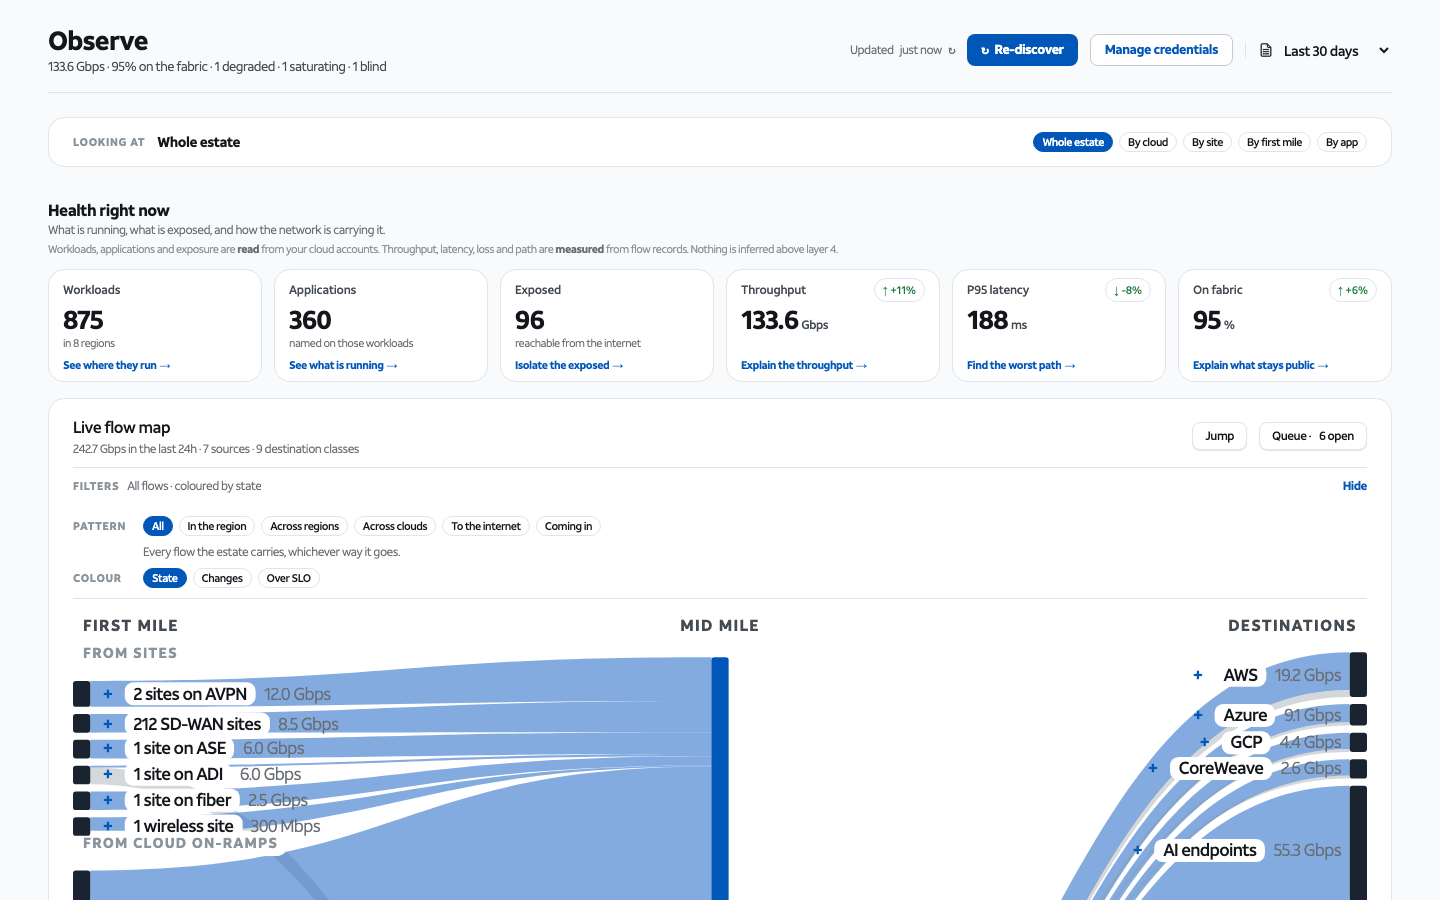
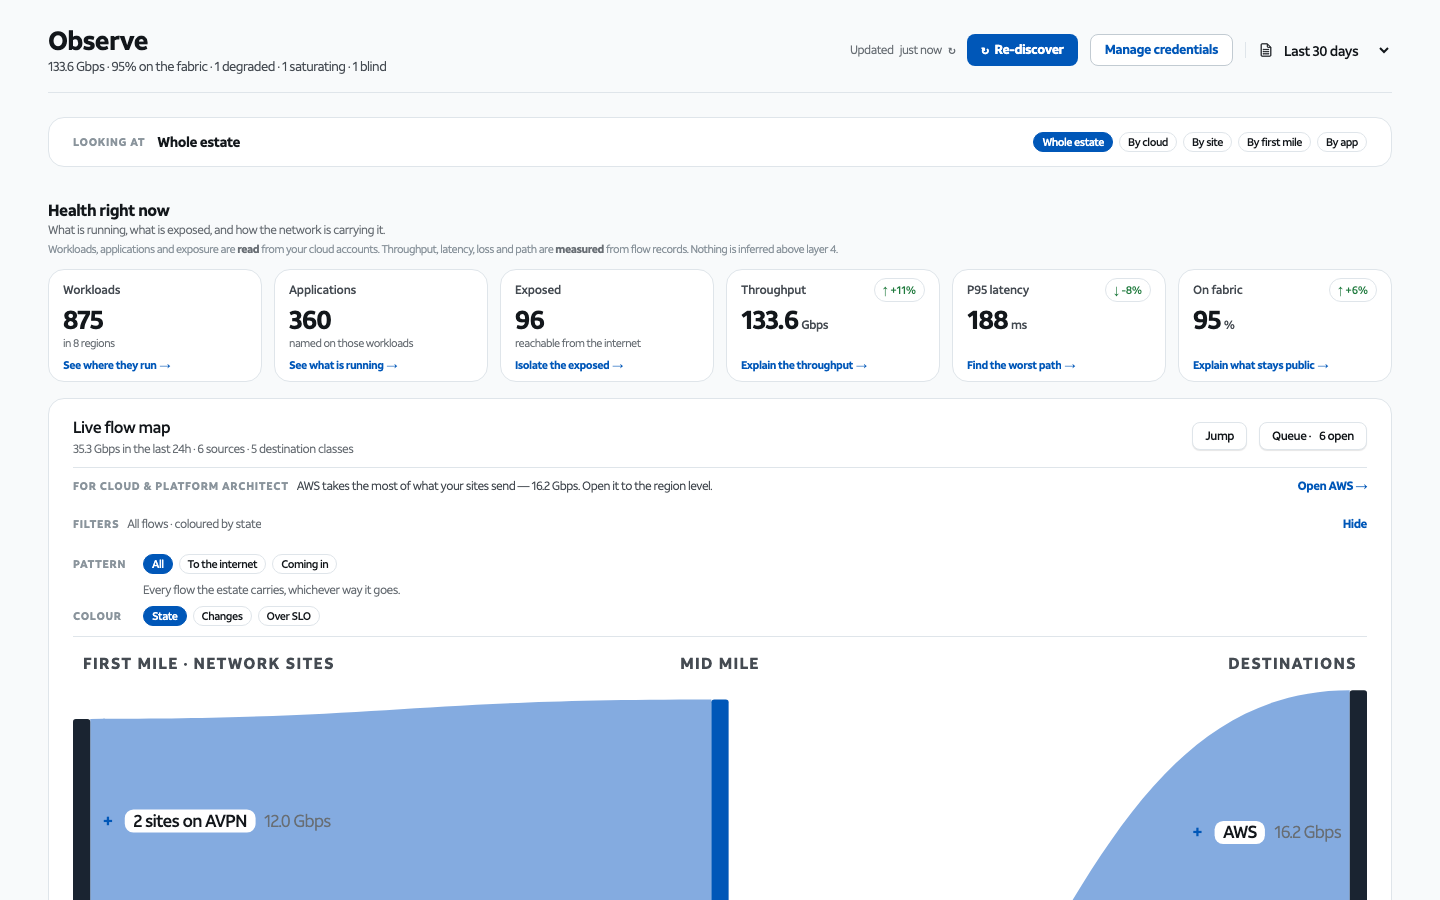
Observe: the drill serves the persona who is looking
Dev asked for drill-down from the flow map for different personas; the
header already had the switcher. Now it reaches the map: a lens line
under the card head hands each persona the number that matters to them
and the door that opens it - executive to the fabric share records,
architect straight into the biggest cloud's regions, network engineering
to what rides outside, security to uninspected internet egress, FinOps
to the money. The Insights cards name the persona they serve and the
current persona's cards lead.

Ripple from the sites-only map, swept and fixed: the legend no longer
claims a "stays in the region" line the map stopped drawing, the README
describes the columns as they are, and the flowmap comment no longer
narrates a ribbon that cannot fire. Observe screenshots regenerated.

diff --git a/NaaS Storefront.dc.html b/NaaS Storefront.dc.html
@@ -1108,7 +1108,8 @@ main button[style*="border-radius:9999px"],main button[style*="border-radius: 99
         <div id="sec-flow" class="fx-card" aria-label="Live flow map" tabindex="0" onKeyDown="{{ mapKey }}" style="outline:none;gap:10px;padding:16px 24px">
           <div class="fx-card-head" style="align-items:center"><div style="min-width:0"><h3 class="fx-card-title">Live flow map</h3><div class="fx-card-sub" title="{{ mapSub }}">{{ mapSub }}</div></div><div style="flex:none;display:flex;align-items:center;gap:8px"><button class="fx-btn" onClick="{{ openJump }}" style="height:28px;padding:0 12px;font-size:12px" title="Jump to anything by name (/)">Jump</button></div><sc-if value="{{ queueClosed }}" hint-placeholder-val="{{ true }}"><button class="fx-btn" onClick="{{ openQueue }}" style="margin-left:auto;height:28px;padding:0 12px;font-size:12px;white-space:nowrap">Queue · {{ queueCount }}</button></sc-if></div>
           <sc-if value="{{ mapJumpOpen }}" hint-placeholder-val="{{ false }}"><label class="fx-search" style="width:100%"><span aria-hidden="true"></span><input value="{{ mapJumpQ }}" onChange="{{ setMapJumpQ }}" onKeyDown="{{ mapJumpKey }}" placeholder="Region, site, VPC, workload, ip · Enter to jump · Esc to close" aria-label="Jump"></input></label></sc-if>
-          <button onClick="{{ toggleMapFilters }}" style="display:flex;align-items:center;gap:8px;width:100%;padding:8px 0;border:0;border-top:1px solid var(--border-secondary);background:transparent;font:inherit;text-align:left;cursor:pointer"><span style="font-size:11px;line-height:16px;letter-spacing:.06em;text-transform:uppercase;font-weight:600;color:var(--text-disabled)">Filters</span><span style="font-size:12px;color:var(--text-light);min-width:0;overflow:hidden;text-overflow:ellipsis;white-space:nowrap">{{ mapFilterSummary }}</span><span style="margin-left:auto;font-size:12px;font-weight:700;color:var(--link)">{{ mapFilterToggleWord }}</span></button><sc-if value="{{ mapFiltersOpen }}" hint-placeholder-val="{{ true }}"><div style="display:grid;grid-template-columns:58px minmax(0,1fr);gap:8px 12px;align-items:center;padding:2px 0 10px;border-bottom:1px solid var(--border-secondary)">
+          <div style="display:flex;align-items:center;gap:8px;padding:8px 0 0;border-top:1px solid var(--border-secondary);min-width:0"><span style="flex:none;font-size:11px;line-height:16px;letter-spacing:.06em;text-transform:uppercase;font-weight:600;color:var(--text-disabled);white-space:nowrap">{{ plKicker }}</span><span style="font-size:12px;line-height:16px;color:var(--text-body);min-width:0;overflow:hidden;text-overflow:ellipsis;white-space:nowrap">{{ plLine }}</span><button onClick="{{ plGo }}" style="flex:none;margin-left:auto;border:0;background:transparent;padding:0;font:inherit;font-size:12px;font-weight:700;color:var(--link);cursor:pointer;white-space:nowrap">{{ plCta }} →</button></div>
+          <button onClick="{{ toggleMapFilters }}" style="display:flex;align-items:center;gap:8px;width:100%;padding:8px 0;border:0;background:transparent;font:inherit;text-align:left;cursor:pointer"><span style="font-size:11px;line-height:16px;letter-spacing:.06em;text-transform:uppercase;font-weight:600;color:var(--text-disabled)">Filters</span><span style="font-size:12px;color:var(--text-light);min-width:0;overflow:hidden;text-overflow:ellipsis;white-space:nowrap">{{ mapFilterSummary }}</span><span style="margin-left:auto;font-size:12px;font-weight:700;color:var(--link)">{{ mapFilterToggleWord }}</span></button><sc-if value="{{ mapFiltersOpen }}" hint-placeholder-val="{{ true }}"><div style="display:grid;grid-template-columns:58px minmax(0,1fr);gap:8px 12px;align-items:center;padding:2px 0 10px;border-bottom:1px solid var(--border-secondary)">
       <span style="font-size:11px;line-height:16px;letter-spacing:.06em;text-transform:uppercase;font-weight:600;color:var(--text-disabled)">Pattern</span>
       <div class="fx-chips" style="gap:6px"><sc-for list="{{ patterns }}" as="pt" hint-placeholder-count="6"><button class="fx-chip" aria-pressed="{{ pt.on }}" onClick="{{ pt.go }}" style="cursor:pointer;background:{{ pt.bg }};color:{{ pt.color }};border-color:{{ pt.border }}">{{ pt.label }}</button></sc-for></div>
       <span></span>
@@ -1123,7 +1124,7 @@ main button[style*="border-radius:9999px"],main button[style*="border-radius: 99
             <sc-for list="{{ mapNodes }}" as="n" hint-placeholder-count="12"><g onClick="{{ n.click }}" onMouseEnter="{{ n.enter }}" onMouseLeave="{{ n.leave }}" opacity="{{ n.op }}" style="cursor:{{ n.cursor }};transition:opacity .2s"><title>{{ n.title }}</title><rect x="{{ n.x }}" y="{{ n.y }}" width="12" height="{{ n.h }}" rx="2" fill="{{ n.fill }}" stroke="{{ n.stroke }}" stroke-width="2"></rect><foreignObject x="{{ n.lx }}" y="{{ n.ly }}" width="{{ n.lw }}" height="20"><div style="display:flex;justify-content:{{ n.justify }};align-items:center;gap:6px;height:20px;padding-left:{{ n.depthPad }}px;font-size:12px;line-height:16px;white-space:nowrap;overflow:hidden"><span style="flex:none;width:12px;text-align:center;font-weight:700;color:var(--link)">{{ n.caret }}</span><span style="font-weight:500;color:var(--text-heading);background:var(--bg-base);padding:0 6px;border-radius:6px;overflow:hidden;text-overflow:ellipsis">{{ n.label }}</span><span style="color:var(--text-light)">{{ n.vF }}</span><sc-if value="{{ n.showDelta }}" hint-placeholder-val="{{ false }}"><span style="font-weight:700;color:{{ n.deltaColor }}">{{ n.deltaF }}</span></sc-if></div></foreignObject></g></sc-for>
           </svg>
 <div style="display:flex;align-items:center;gap:10px;flex-wrap:wrap;font-size:12px;color:var(--text-light)"><span style="font-weight:600;color:var(--text-body);white-space:nowrap">{{ windowLabel }}</span><span style="color:var(--text-disabled)">·</span><button class="fx-btn" onClick="{{ toggleReplay }}" style="height:24px;padding:0 10px;font-size:11px" aria-pressed="{{ replayOpen }}">Replay 24h</button><sc-if value="{{ replayOpen }}" hint-placeholder-val="{{ false }}"><span style="display:flex;align-items:center;gap:8px;flex:1;min-width:200px"><button class="fx-btn" onClick="{{ playMap }}" style="height:24px;width:28px;padding:0;justify-content:center" title="Replay the last 24 hours" aria-pressed="{{ mapPlaying }}">{{ playLabel }}</button><span style="white-space:nowrap;font-size:11px">24h ago</span><input type="range" min="0" max="100" value="{{ mapT }}" onChange="{{ setMapT }}" onInput="{{ setMapT }}" aria-label="Time scrubber" style="flex:1;min-width:120px;accent-color:var(--cta)"></input><span style="white-space:nowrap;font-size:11px">now</span><button class="fx-btn" onClick="{{ wholeWindow }}" style="height:24px;padding:0 10px;font-size:11px">Whole window</button></span></sc-if></div>
-          <div class="fx-legend" style="justify-content:flex-start;flex-wrap:nowrap;gap:12px;font-size:11px;white-space:nowrap;margin-top:-4px"><span><i style="background:#3374cc"></i>AT&amp;T fabric</span><span><i style="background:#8a949c"></i>Outside the fabric</span><span><i style="background:#4db6ac"></i>Stays in the region</span><span><i style="background:#ff8500"></i>Degraded, pulsing</span><span><i style="background:#c9362c"></i>Over SLO</span><span>Thickness is Gbps</span></div>
+          <div class="fx-legend" style="justify-content:flex-start;flex-wrap:nowrap;gap:12px;font-size:11px;white-space:nowrap;margin-top:-4px"><span><i style="background:#3374cc"></i>AT&amp;T fabric</span><span><i style="background:#8a949c"></i>Outside the fabric</span><span><i style="background:#ff8500"></i>Degraded, pulsing</span><span><i style="background:#c9362c"></i>Over SLO</span><span>Thickness is Gbps</span></div>
           <sc-if value="{{ hasPins }}" hint-placeholder-val="{{ false }}"><div class="fx-chips"><span class="fx-label">Compare</span><sc-for list="{{ pins }}" as="pn" hint-placeholder-count="2"><span class="fx-chip">{{ pn.name }} · {{ pn.v }}<button class="fx-chip-x" onClick="{{ pn.unpin }}" aria-label="Unpin">×</button></span></sc-for></div></sc-if>
       <div style="display:grid;grid-template-columns:minmax(0,7fr) minmax(0,5fr);gap:32px;padding:16px 0 8px;border-top:1px solid var(--border-secondary)">
         <div style="display:grid;gap:2px;min-width:0;align-content:start">
@@ -1190,7 +1191,7 @@ main button[style*="border-radius:9999px"],main button[style*="border-radius: 99
   <div style="display:grid;grid-template-columns:repeat(auto-fill,minmax(340px,1fr));gap:12px;align-items:stretch">
     <sc-for list="{{ insightRows }}" as="ins" hint-placeholder-count="6">
       <div style="display:flex;flex-direction:column;gap:6px;height:100%;box-sizing:border-box;padding:14px 16px;border:1px solid var(--border-secondary);border-left:3px solid {{ ins.tone }};border-radius:12px;background:{{ ins.toneBg }};min-width:0">
-        <div style="display:flex;align-items:baseline;gap:8px;flex-wrap:wrap"><span style="font-size:10px;letter-spacing:.06em;text-transform:uppercase;font-weight:700;color:var(--text-disabled);white-space:nowrap">{{ ins.kind }}</span><span style="font-size:11px;color:var(--text-disabled);white-space:nowrap">{{ ins.when }}</span></div>
+        <div style="display:flex;align-items:baseline;gap:8px;flex-wrap:wrap"><span style="font-size:10px;letter-spacing:.06em;text-transform:uppercase;font-weight:700;color:var(--text-disabled);white-space:nowrap">{{ ins.kind }}</span><span style="font-size:11px;color:var(--text-disabled);white-space:nowrap">{{ ins.when }}</span><span style="margin-left:auto;font-size:10px;letter-spacing:.06em;text-transform:uppercase;font-weight:600;color:{{ ins.pInk }};white-space:nowrap">{{ ins.pFor }}</span></div>
         <div style="font-size:14px;line-height:20px;font-weight:700;color:var(--text-heading);text-wrap:pretty">{{ ins.head }}</div>
         <div style="font-size:12px;line-height:17px;color:var(--text-body);text-wrap:pretty">{{ ins.why }}</div>
         <sc-if value="{{ ins.hasDid }}" hint-placeholder-val="{{ false }}"><div style="font-size:12px;line-height:17px;color:var(--text-light);text-wrap:pretty"><b style="font-weight:700">AT&amp;T did</b> · {{ ins.did }}</div></sc-if>

diff --git a/naas-app.js b/naas-app.js
@@ -1214,7 +1214,8 @@ function addendumVals(c, s, set, est, ob, inv, go, findingCard, totalSave, est0)
   // that happened and has a time on it; an insight is something that is true
   // and has a number on it. Both carry the evidence and one thing to do.
   const anomalyRows = R.anomalies(est0, ob).map((a, i) => ({
-    key: a.key, kind: 'Event', when: a.when, head: a.head, why: a.cause, did: a.did, hasDid: !!a.did, act: a.can,
+    key: a.key, persona: a.key === 'an-dest' ? 'Security & Compliance' : a.key === 'an-egress' ? 'FinOps & SRE' : 'Network Engineering',
+    kind: 'Event', when: a.when, head: a.head, why: a.cause, did: a.did, hasDid: !!a.did, act: a.can,
     tone: a.sev === 'amber' ? 'var(--warning)' : 'var(--link)',
     toneBg: 'var(--bg-base)',
     cta: a.region ? 'Open it on the map' : 'Open Cost',
@@ -1223,7 +1224,8 @@ function addendumVals(c, s, set, est, ob, inv, go, findingCard, totalSave, est0)
       : go('s3', { layer: 'cloud', tab: 'cost' }),
   }));
   const insightRows = R.insights(est0, ob).map(x => ({
-    key: x.key, kind: x.kicker, when: '', head: x.head, why: x.body, did: '', hasDid: false,
+    key: x.key, persona: { talkers: 'Executive', newdest: 'Security & Compliance', shadow: 'Security & Compliance', growth: 'FinOps & SRE', multi: 'Cloud & Platform Architect', idle: 'FinOps & SRE' }[x.key] || 'FinOps & SRE',
+    kind: x.kicker, when: '', head: x.head, why: x.body, did: '', hasDid: false,
     act: { talkers: 'Open the busiest source on the map and see what it reaches.',
            newdest: 'Review the new destinations in Logs before they become normal.',
            shadow: 'Author a policy that requires inspection for SaaS from cloud workloads.',
@@ -1244,13 +1246,33 @@ function addendumVals(c, s, set, est, ob, inv, go, findingCard, totalSave, est0)
     border: (s.insightTab || 'all') === k ? 'var(--cta)' : 'var(--border-secondary)',
   }));
   const insightTab = s.insightTab || 'all';
-  const insightRowsShown = insightTab === 'events' ? anomalyRows : insightTab === 'standing' ? insightRows : insightAll;
+  // The persona switch reaches here too: the cards for whoever is looking
+  // come first. Sort is stable, so within a persona the original order holds.
+  const personaSort = (rows) => rows.slice().sort((a, b) => ((b.persona === (PERSONA_NAME[s.persona] || 'Cloud & Platform Architect')) ? 1 : 0) - ((a.persona === (PERSONA_NAME[s.persona] || 'Cloud & Platform Architect')) ? 1 : 0));
+  const insightRowsShown = personaSort(insightTab === 'events' ? anomalyRows : insightTab === 'standing' ? insightRows : insightAll)
+    .map(r => ({ ...r, pFor: 'For ' + ({ 'Cloud & Platform Architect': 'Architect', 'Network Engineering': 'Network Eng', 'Security & Compliance': 'Security', 'FinOps & SRE': 'FinOps & SRE', 'Executive': 'Executive' }[r.persona] || r.persona), pInk: r.persona === (PERSONA_NAME[s.persona] || 'Cloud & Platform Architect') ? 'var(--link)' : 'var(--text-disabled)' }));
   const insightVals = {
     insightRows: insightRowsShown, hasInsights: insightRowsShown.length > 0, insightFilters,
     insightCount: `${insightAll.length} open`,
     insightSub: `${anomalyRows.length} ${anomalyRows.length === 1 ? 'event' : 'events'} in the window · ${insightRows.length} standing findings. Each one names the evidence and the next move.`,
   };
-  const dash = { ...mixVals, ...insightVals, dashTiles, queueRows, hasQueue: queueRows.length > 0, queueCount: `${queueRows.length} open`, queueOpen: queueRows.length > 0 && !!s.queueOpen, queueClosed: !(queueRows.length > 0 && !!s.queueOpen), openQueue: () => set({ queueOpen: true }), closeQueue: () => set({ queueOpen: false }), mapNodes, mapRibbons, mapHeads, mapVB: `0 0 ${map.W} ${map.H}`, patternWhy, patterns,
+  // Dev (2026-09-11): "drill down from it for different personas". The header
+  // already knows who is looking; this hands each persona their entry point
+  // into the same map, instead of a persona-flavoured redesign of it.
+  const personaNow = PERSONA_NAME[s.persona] || 'Cloud & Platform Architect';
+  const plTopCloud = map.nodes.filter(n => n.side === 'r' && n.kind === 'cloud' && !n.parentKey).sort((a, b) => (b.tot || b.v) - (a.tot || a.v))[0];
+  const plInetV = MIX.buckets.filter(b => (EXPLAIN_CUT[b.key] || {}).pattern === 'internet').reduce((a, b) => a + b.v, 0);
+  const plFabPct = Math.round(fabAll / (crossed || 1) * 100);
+  const PERSONA_LENS = {
+    'Executive': { line: `${plFabPct}% of everything that crosses a mid mile rides the AT&T fabric — ${fabAll.toFixed(1)} of ${crossed.toFixed(1)} Gbps.`, cta: 'See the records', go: mixVals.explainFabric },
+    'Cloud & Platform Architect': plTopCloud ? { line: `${plTopCloud.name} takes the most of what your sites send — ${(plTopCloud.tot || plTopCloud.v).toFixed(1)} Gbps. Open it to the region level.`, cta: `Open ${plTopCloud.name}`, go: () => set({ mapOpen: (s.mapOpen || []).includes(plTopCloud.key) ? (s.mapOpen || []) : [...(s.mapOpen || []), plTopCloud.key], mapSel: plTopCloud.key, panelTab: 'overview' }) } : null,
+    'Network Engineering': { line: `${pubAll.toFixed(1)} Gbps crosses a mid mile outside the fabric — no latency floor, no SLO, no second path.`, cta: 'See the records', go: mixVals.explainOutside },
+    'Security & Compliance': { line: `${plInetV.toFixed(1)} Gbps of cloud egress reaches the internet with no inspection point in the path.`, cta: 'See the records', go: explainNav(c, { label: 'Cloud egress to the internet', value: plInetV.toFixed(1) + ' Gbps', sub: 'AI endpoints and public internet destinations, straight over the hyperscaler exit.', cut: 'Records leaving the cloud for the internet.', pattern: 'internet', parts: [] }) },
+    'FinOps & SRE': { line: totalSave > 0 ? `${fmt(totalSave)}/mo is on the table — the same bytes at fabric rates instead of public ones.` : `The fabric is saving ${fmt(ob.savingsMo || 0)}/mo against public rates; egress runs ${fmt(ob.egressMo || 0)}/mo.`, cta: 'Open Cost', go: () => { go('s3', { layer: 'cloud', tab: 'cost' })(); } },
+  };
+  const plNow = PERSONA_LENS[personaNow] || PERSONA_LENS['Executive'];
+  const dash = { ...mixVals, ...insightVals, dashTiles, queueRows, hasQueue: queueRows.length > 0, queueCount: `${queueRows.length} open`, queueOpen: queueRows.length > 0 && !!s.queueOpen, queueClosed: !(queueRows.length > 0 && !!s.queueOpen), openQueue: () => set({ queueOpen: true }), closeQueue: () => set({ queueOpen: false }), plKicker: 'For ' + personaNow, plLine: plNow.line, plCta: plNow.cta, plGo: plNow.go,
+    mapNodes, mapRibbons, mapHeads, mapVB: `0 0 ${map.W} ${map.H}`, patternWhy, patterns,
     scopeDims, scopeMembers, hasScopeMembers: scopeMembers.length > 0, scopeLabel,
     clearScope: () => set({ obScope: 'all', obDim: 'all' }), scopeIsAll: !obScope || obScope === 'all',
     mapFiltersOpen, mapFiltersShut: !mapFiltersOpen,

diff --git a/naas-flowmap.js b/naas-flowmap.js
@@ -296,9 +296,11 @@ export function buildMap(est, inv, flows0, opts = {}) {
   const link = (a, b, v, priv, kindOverride) => { if (v <= 0.0005) return; const sa = a.h / (a.tot || a.v || 1), sb = b.h / (b.tot || b.v || 1); const ay = a.y + a.used * sa, by = b.y + b.used * sb, ah = v * sa, bh = v * sb; a.used += v; b.used += v; const mx = (a.x2 + b.x) / 2; ribbons.push({ d: `M${a.x2},${ay} C${mx},${ay} ${mx},${by} ${b.x},${by} L${b.x},${by + bh} C${mx},${by + bh} ${mx},${ay + ah} ${a.x2},${ay + ah} Z`, priv, local: !!kindOverride, v, from: a.key, to: b.key, state: kindOverride ? 'ok' : priv ? 'ok' : (a.state !== 'ok' ? a.state : b.state), delta: deltaOf(a.key + '>' + b.key), pattern: kindOverride || patternOf(a, b) }); };
   const fab = MM.find(m => m.priv), pub = MM.find(m => !m.priv);
   const localDest = DD.find(d => d.key === 'dest:local');
-  // Traffic that starts and ends inside one region crosses no mid mile, so it
-  // is drawn straight across, under the band, instead of being given a middle
-  // node that misrepresents it as a path you could buy.
+  // Region-local traffic crosses no mid mile and, since the map became the
+  // site-to-cloud story (Dev, 2026-09-11), is not drawn here at all — the
+  // readout's "Cloud to cloud, inside one region" row carries that class.
+  // locV is zeroed above, so the localDest link below never fires; it stays
+  // as the seam if a future map wants the under-band line back.
   SS.forEach(s => { if (fab) link(s, fab, s.fabV, true); if (pub) link(s, pub, s.v - s.fabV, false); if (localDest && s.locV) link(s, localDest, s.locV, false, 'region'); });
   DD.forEach(d => { if (d.key === 'dest:local') return; if (fab) link(fab, d, d.fabV, true); if (pub) link(pub, d, d.v - d.fabV, false); });
   const nodes = [...SS.map(x => ({ ...x, side: 'l' })), ...MM.map(x => ({ ...x, side: 'm' })), ...DD.map(x => ({ ...x, side: 'r' }))].map(x => ({ ...x, delta: deltaOf(x.key), open: open.has(x.key) }));

diff --git a/README.md b/README.md
@@ -61,16 +61,23 @@ tradeoff for each, and the ways to connect.
 
 ![Observe](docs/screenshots/02-observe.png)
 
-The live flow map is the centre of the screen, in three columns: **first
-mile → mid mile → destinations**. Traffic that starts and ends inside one
-region crosses no mid mile, so it is drawn straight across under the band
-rather than given a middle node that would misrepresent it as a path you
-could buy.
+The live flow map is the centre of the screen, in three columns: **network
+sites → AT&T fabric / outside the fabric → clouds and the public internet**.
+The left column is the sites and nothing else; cloud-born traffic never
+appears as a source.
 
-Above it, a readout answers the two questions the picture alone does not:
-where the traffic goes (share and Gbps per destination class, with the
-fabric share of each) and how much of everything that crosses a mid mile
-rides AT&T. The first-mile distribution from sites sits beside it.
+Under it, a readout answers what the picture alone does not: where the whole
+estate's traffic goes (share and Gbps per destination class, with the fabric
+share of each) and how much of everything that crosses a mid mile rides
+AT&T. Traffic that starts and ends inside one region crosses no mid mile, so
+it appears in the readout as its own class instead of being drawn as a
+ribbon. The first-mile distribution from sites sits beside it.
+
+A persona line under the map header hands whoever is looking — executive,
+architect, network engineering, security, FinOps — one sentence with the
+number that matters to them and the door that opens its records. The same
+persona switch (behind the avatar) reorders the Insights cards, so each
+audience's cards lead.
 
 ![Flow readout](docs/screenshots/08-flow-readout.png)
 
